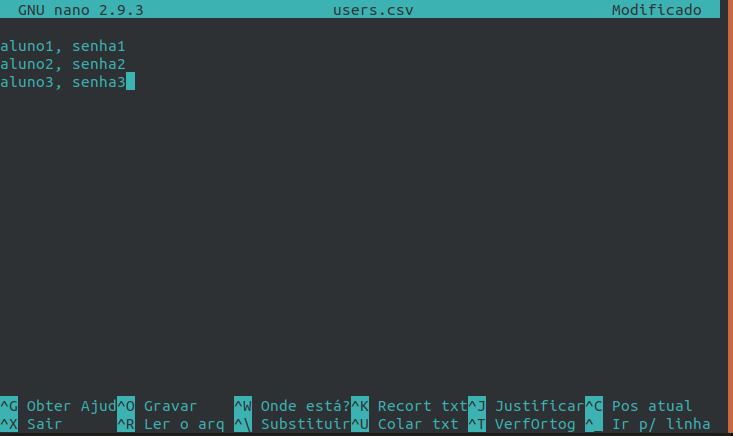
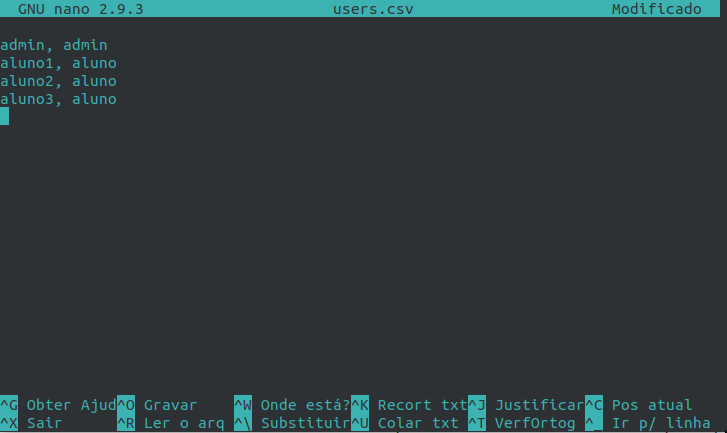
documentação prof e desen feitas

diff --git a/src/add_quiz.py b/src/add_quiz.py
@@ -1,0 +1,17 @@
+import sqlite3
+
+
+def add_quiz(user, pwd, type):
+    conn = sqlite3.connect('quiz.db')
+    cursor = conn.cursor()
+    cursor.execute('Insert into QUIZ(numb, release, expire, problem, tests, results, diagnosis) values ("{1}","{2}","{3}","{4}","{5}","{6}","{7}");'.format(numb, release, expire, problem, tests, results, diagnosis))
+    conn.commit()
+    conn.close()
+
+
+with open('quiz.csv', 'r') as file:
+    lines = file.read().splitlines()
+
+for quiz in lines:
+    (numb, release, expire, problem, tests, results, diagnosis) = quiz.split(',')
+    add_quiz(numb, release, expire, problem, tests, results, diagnosis)

diff --git a/docs/professor.md b/docs/professor.md
@@ -1,55 +1,45 @@
 # Professores
 
-## Introdução
-
-## Configurando o Ambiente
-O primeiro passo para utilizar o servidor é configurar o ambiente. Antes de tudo é necessário criar o banco de dados(BD) onde será armazenado tanto as perguntas dos desafios como os usuários da ferramenta, ou seja, os alunos.
-
-Para tanto é necessário instalar o gerenciador do BD, sqlite3. Execute o comando abaixo em um novo terminal (Crtl+Shift+T) para instalar o sqlite3.
-
-```$ pip install pysqlite3```
-
-Com o gerenciador instalado o próximo passo é criar o banco de dados utilizando o sqlite3. O comando abaixo permite criar um BD com o nome "quiz", este comando deve ser executado na pasta `\src` do projeto. 
-
-```$ sqlite3 quiz.db```
-
-Ao Executar o comando um documento chamado `quiz.db` será criado na mesma pasta e o seu terminal deverá estardentro do ambiente do sqlite3.
-Para checar se o banco de dados foi devidamente criado, execute o seguinte comando no sqlite3.
-
-``` sqlite> .database```
-
-A função deve retornar o caminho até o documento `quiz.db`. Com isso feito, agora é necessário criar as tabelas do projeto. Assim, deve-se executar o seguinte comando:
-
-``` sqlite> .read quiz.sql```
-
-
-Ou simplesmente execute o comando abaixo, assim irá criar o banco de dados e redirecionar as tabelas para o mesmo.
-
-```$ sqlite3 quiz.db < quiz.sql```
-
-Para checar se as tabelas foram de fato criadas execute o seguinte comando:
-
-```sqlite> .tables ```
-
-O retorno será as tabelas do projeto. Neste caso:
-```QUIZ      USER      USERQUIZ```
-
 ## Adicionando os Usuários (Alunos)
 
-O primeiro passo é criar um documento `.csv`, na pasta `\src` do projeto. O comando abaixo irá criar o documento e abrir para a edição no editor *nano*.
+O primeiro passo é criar um documento `.csv`, na pasta `src/` do projeto. O comando abaixo irá criar o documento e abrir para a edição no editor *nano*.
 
 ```$ nano users.csv```
 
-Adicione os alunos e sua senha separando com vírgulas: aluno, senha
+Para adicionar os usuários é necessário escrever o login e o seu tipo sepados por vírgulas, sendo que este último pode ser `admin` para administrador ou `aluno` para os alunos. Cada linha recebe a informação de um usuário. Adicione primeiramenta na primeira linha o administrador da página (admin, admin) e em seguida os alunos.
 
 ![Adiciona aluno](img/add_alunos.png)
 
-Para salvar o arquivo basta utilizar o comando Gravar (Ctrl+O) e então fechar o arquivo (Ctrl+X). 
+Para salvar o arquivo basta utilizar o comando Gravar (Ctrl+O) e então fechar o arquivo (Ctrl+X). A senha poderá ser alterada posteriormente pelo aluno.
 
-Com o arquivo editado o próximo passo é adicionar esses novos valores a tabela, ou seja, popular a tabela `USER`. Para isso basta executar o arquivo python `adduser.py`.
+Com o arquivo editado o próximo passo é adicionar esses novos valores a tabela, ou seja, popular a tabela `USER`. Para isso basta executar o arquivo python `add_user.py`.
 
-```$ python adduser.py```
+```$ python add_user.py```
 
 Não é necessário passar o arquivo como argumento, apenas é estritamente necessário criar o arquivo com o nome `users.csv`. Agora o projeto já possui os seus usuários!
 
 ## Adicionando Novos Desafios
+
+Adicionar novos desafios é muito parecido com a forma como os usuários são adicionados. Da mesma forma que no caso anterior, é necessário criar um arquivo `.csv`, na pasta `src/` do projeto, mas agora, o nome do arquivo será `users.csv`.
+
+```$ nano users.csv```
+
+A cada linha será inserido as informações de cada desafio. A estrutura que deve descrita é (numb, release, expire, problem, tests, results, diagnosis), sendo os seus significados:
+
+- **numb**: Numeração do desafio
+- **release**: Data de lançamento
+- **expire**: Data de validade
+- **problem**: Descrição do desafio
+- **test**: Possíveis entradas da função
+- **result**: Resultados das entradas fornecidas pelo **test**
+- **diagnosis**: ?
+
+![Adiciona quiz](img/add_quiz.png)
+
+O seu arquivo deve ficar semelhante com a imagem acima.
+
+Para enviar os teste para o servidor basta executar o arquivo python `add_quiz.py`.
+
+```$ python add_quiz.py```
+
+Agora o projeto já possui os desafios!

diff --git a/docs/guia_des.md b/docs/guia_des.md
@@ -1,7 +1,57 @@
 # Guia do Desnvolvedor
 
-## Introdução
+## Configurando o Ambiente
+O primeiro passo para utilizar o servidor é configurar o ambiente. Antes de tudo é necessário criar o banco de dados(BD) onde será armazenado tanto as perguntas dos desafios como os usuários da ferramenta, ou seja, os alunos.
 
-## Configuração do Ambiente
+Para tanto é necessário instalar o gerenciador do BD, sqlite3. Execute o comando abaixo em um novo terminal (Crtl+Shift+T) para instalar o sqlite3.
+
+```$ pip install pysqlite3```
+
+Com o gerenciador instalado o próximo passo é criar o banco de dados utilizando o sqlite3. O comando abaixo permite criar um BD com o nome "quiz", este comando deve ser executado na pasta `src/` do projeto. 
+
+```$ sqlite3 quiz.db```
+
+Ao Executar o comando um documento chamado `quiz.db` será criado na mesma pasta e o seu terminal deverá estardentro do ambiente do sqlite3.
+Para checar se o banco de dados foi devidamente criado, execute o seguinte comando no sqlite3.
+
+``` sqlite> .database```
+
+A função deve retornar o caminho até o documento `quiz.db`. Com isso feito, agora é necessário criar as tabelas do projeto. Assim, deve-se executar o seguinte comando:
+
+``` sqlite> .read quiz.sql```
+
+
+Ou simplesmente execute o comando abaixo, assim irá criar o banco de dados e redirecionar as tabelas para o mesmo.
+
+```$ sqlite3 quiz.db < quiz.sql```
+
+Para checar se as tabelas foram de fato criadas execute o seguinte comando:
+
+```sqlite> .tables ```
+
+O retorno será as tabelas do projeto. Neste caso:
+```QUIZ      USER      USERQUIZ```
+
+## Como executar o programa
+
+Com o banco de dados já configurado, o próximo passo é executar o programa. Primeiramente é necessário criar um login de administrador, para isso basta olhar o item "Adiciona Usuário" do arquivo [professor](professor.md).
+
+Para abrir o programa, basta executar o arquivo python `servidor.py`.
+
+```$ python servidor.py```
+
+O programa estará rodando no localhost na porta 8080. Assim, para ver o conteúdo da página é necessário abrir um navegador e acessar o seguinte link: `http://0.0.0.0:8080/`.
+
+Ao entrar na página irá aparecer um *popup* onde é possível inserir suas informações para login e assim acessar o servidor de desafios.
+![Longin](img/login.png)
 
 ## Como contribuir
+
+Para realizar contribuições no projeto:
+
+- Faça um Fork do projeto
+- Crie uma Branch para sua Feature (`git checkout -b feature/<nome_feature>`)
+- Adicione suas mudanças (`git add .`)
+- Comite suas mudanças (`git commit -m 'Adicionando feature`)
+- Faça o Push da Branch (`git push origin feature/<nome_feature>`)
+- Abra um Pull Request no Github 
